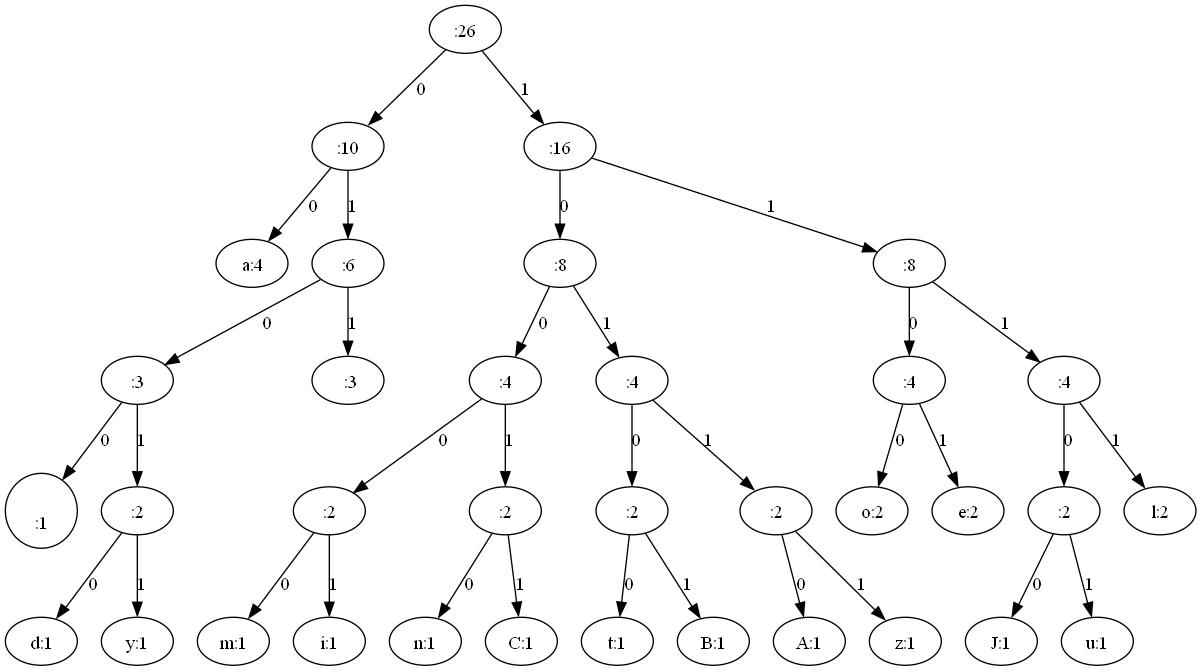
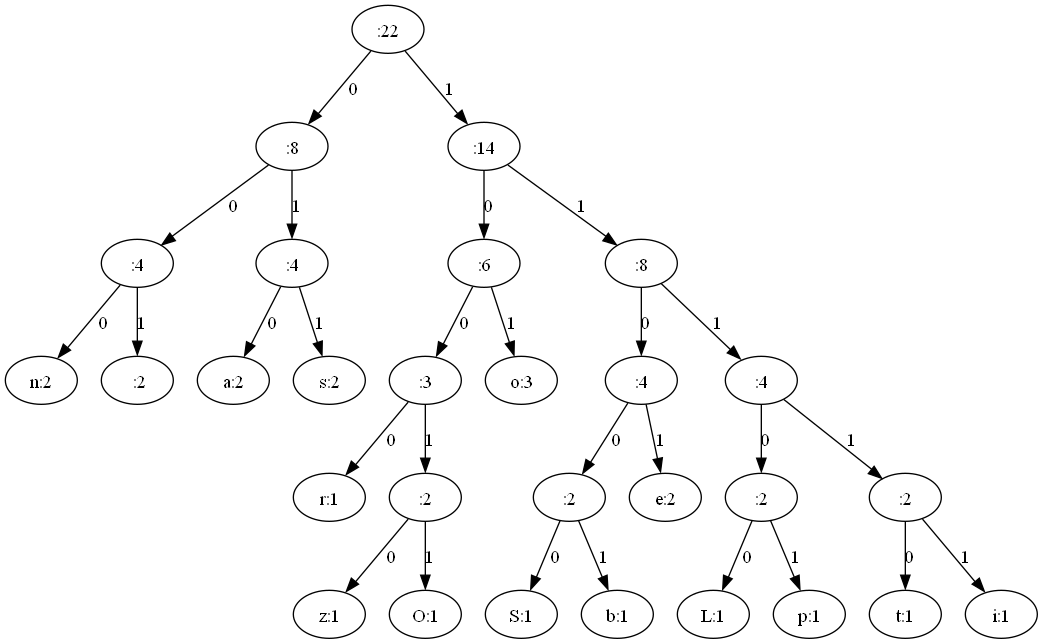
implement descompress

diff --git a/DataCompressor/Logic/Compressor.py b/DataCompressor/Logic/Compressor.py
@@ -41,9 +41,7 @@ class Compressor:
 
 
         #Obtener diccionario
-        dict_huffman = {'a': '00', '\n': '0100', 'd': '01010', 'y': '01011', ' ': '011', 'm': '10000', 'i': '10001', 'n': '10010', 'C': '10011', 't': '10100', 'B': '10101', 'A': '10110', 'z': '10111', 'o': '1100', 'e': '1101', 'J': '11100', 'u': '11101', 'l': '1111'}
-
-
+        dict_huffman = {'n': '000', ' ': '001', 'a': '010', 's': '011', 'r': '1000', 'z': '10010', 'O': '10011', 'o': '101', 'S': '11000', 'b': '11001', 'e': '1101', 'L': '11100', 'p': '11101', 't': '11110', 'i': '11111'}
         #Invertir Diccionario
         dict_huffman = {v: k for k, v in dict_huffman.items()}
 

diff --git a/DataCompressor/Utility/FileManager.py b/DataCompressor/Utility/FileManager.py
@@ -8,7 +8,7 @@ class FileManager:
     def read_file(self, ext):
         try:
             with open(self.file_path + ext, "r", encoding='utf-8') as file:
-                return file.read()
+                return file.read().rstrip() # Elimina espacios final generados por el pointer de Python al usar read
         except OSError or FileNotFoundError as e:
             print("Error al leer el archivo:", e)
         return ""

diff --git a/DataCompressor/Bean/HuffmanCoding.py b/DataCompressor/Bean/HuffmanCoding.py
@@ -57,8 +57,8 @@ class HuffmanCoding:
                 new_content += codes[char]
         return new_content
 
-    def encoded(self,content):
-        ext_bit = 8 - len(content) & 8
+    def encoded(self, content):
+        ext_bit = 8 - len(content) % 8 # Calcular la cantidad de bits faltantes
         for i in range(ext_bit):
             content += "0"
         format_bin = "{0:08b}".format(ext_bit)

diff --git a/DataCompressor/main.py b/DataCompressor/main.py
@@ -2,8 +2,9 @@ from Logic import Compressor as Cm
 
 if __name__ == '__main__':
     cm = Cm.Compressor()
-    #cm.Compress("Archivo", ".txt", ".slo")
-    cm.Descompress("Archivo", ".slo", ".txt")
+    cm.Compress("Archivo", ".txt", ".slo")
+    #cm.Descompress("Archivo", ".slo", ".txt")
+
 
 # See PyCharm help at https://www.jetbrains.com/help/pycharm/
 
